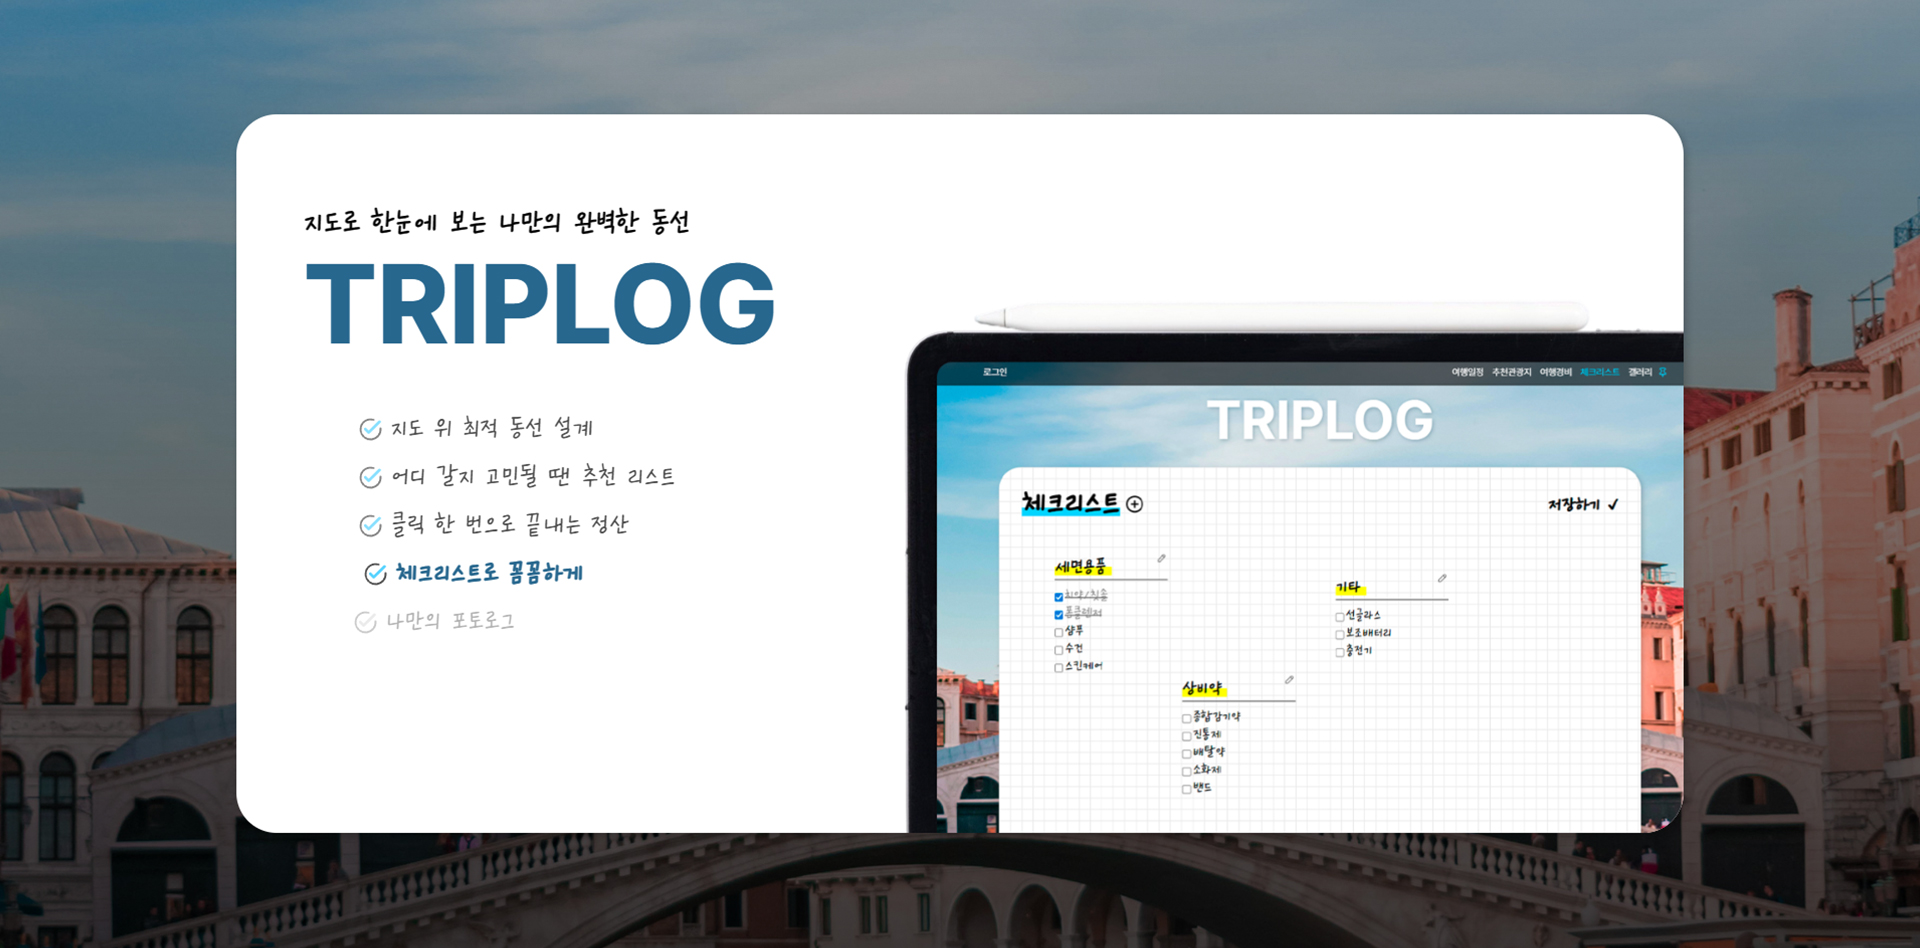
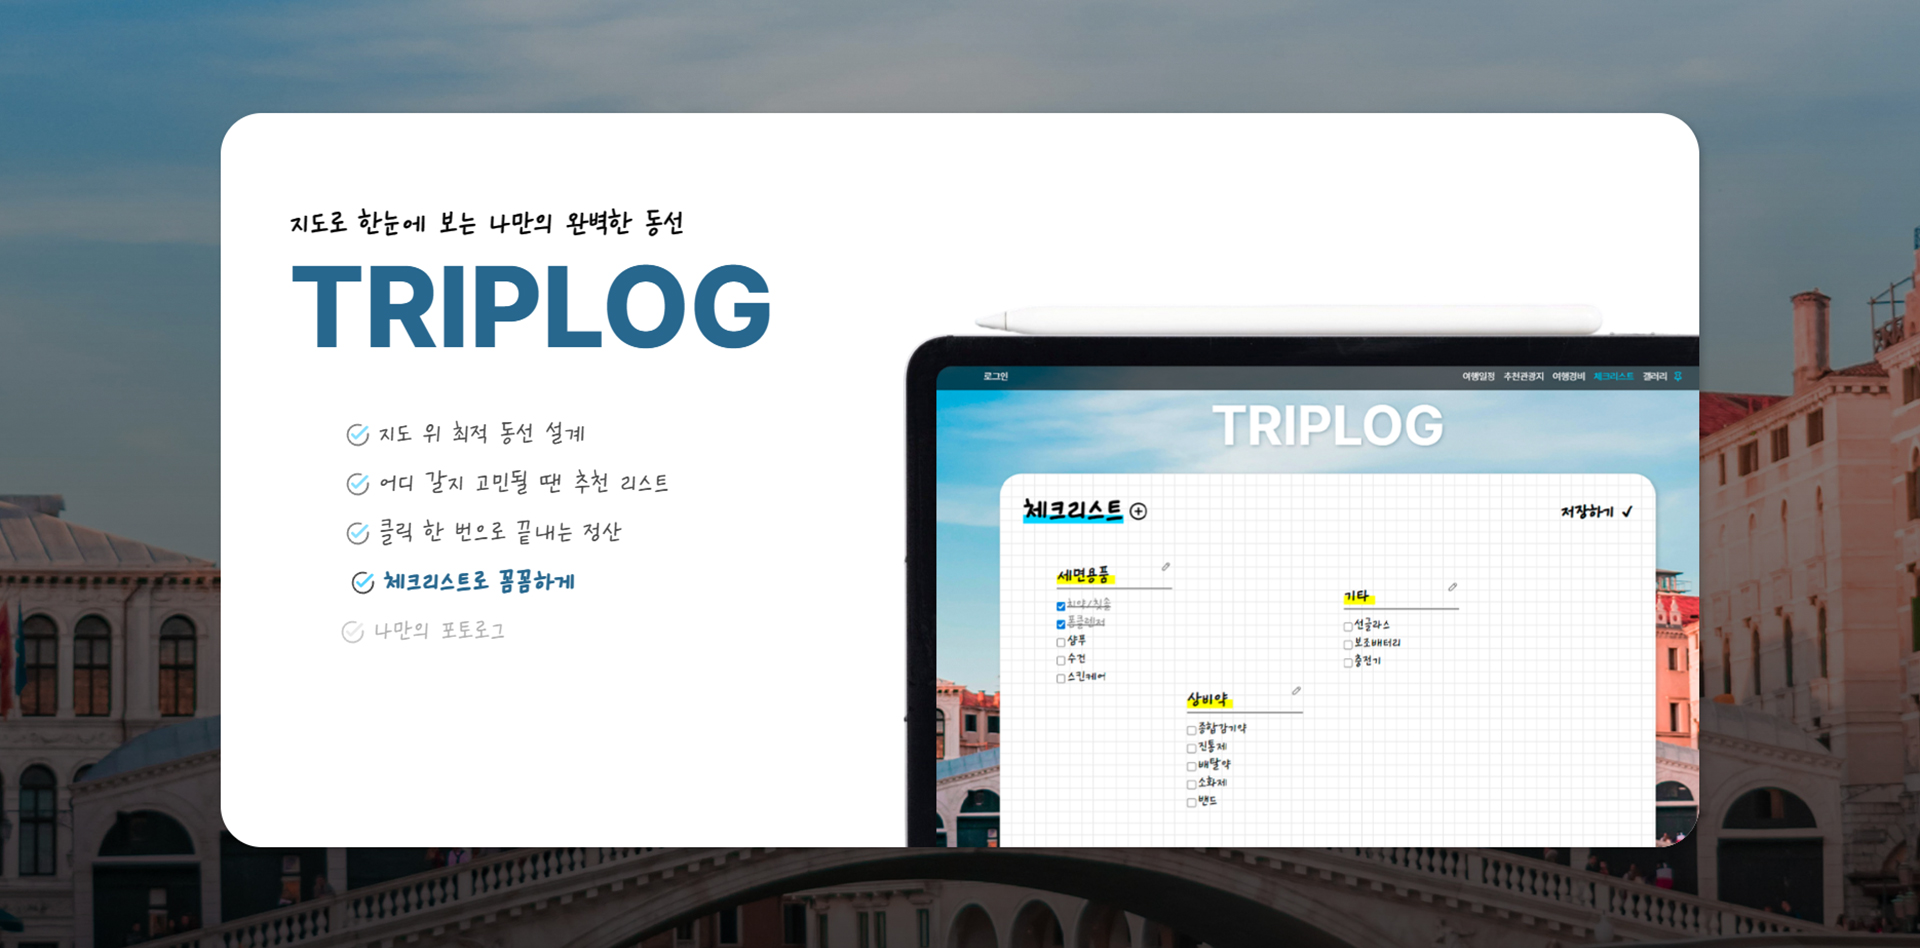
adu

diff --git a/src/pages/Ui.jsx b/src/pages/Ui.jsx
@@ -45,7 +45,7 @@ function Ui() {
                 </div>
                 <div className="tool">
                   <p dangerouslySetInnerHTML={{ __html: item.role }} />
-                  {item.tool}
+                  {item.stack}
                 </div>
               </div>
             </section>